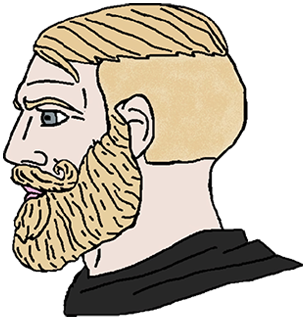
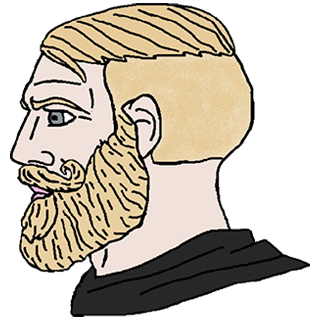
Update project

diff --git a/pages/index.js b/pages/index.js
@@ -40,10 +40,10 @@ export default function Home() {
           <div className="max-w-7xl mx-auto mb-16 md:mb-24 px-4 flex items-center justify-between">
             <div>
               <Image
-                src="/chad.gif"
-                width={200}
-                height={200}
-                className="w-20 sm:w-24 md:w-28 h-auto block mx-auto p-2"
+                src="/chad.png"
+                width={320}
+                height={320}
+                className="w-16 sm:w-20 md:w-24 h-auto block mx-auto py-4"
                 alt="Yes Chad Figure"
                 unoptimized
               />
@@ -186,10 +186,10 @@ export default function Home() {
             </div>
             <div>
               <Image
-                src="/chad.png"
-                width={306}
-                height={320}
-                className="w-72 h-auto mx-auto"
+                src="/chad.gif"
+                width={445}
+                height={480}
+                className="w-80 h-auto mx-auto"
                 priority="low"
                 alt="Yes Chad Portrait"
               />
